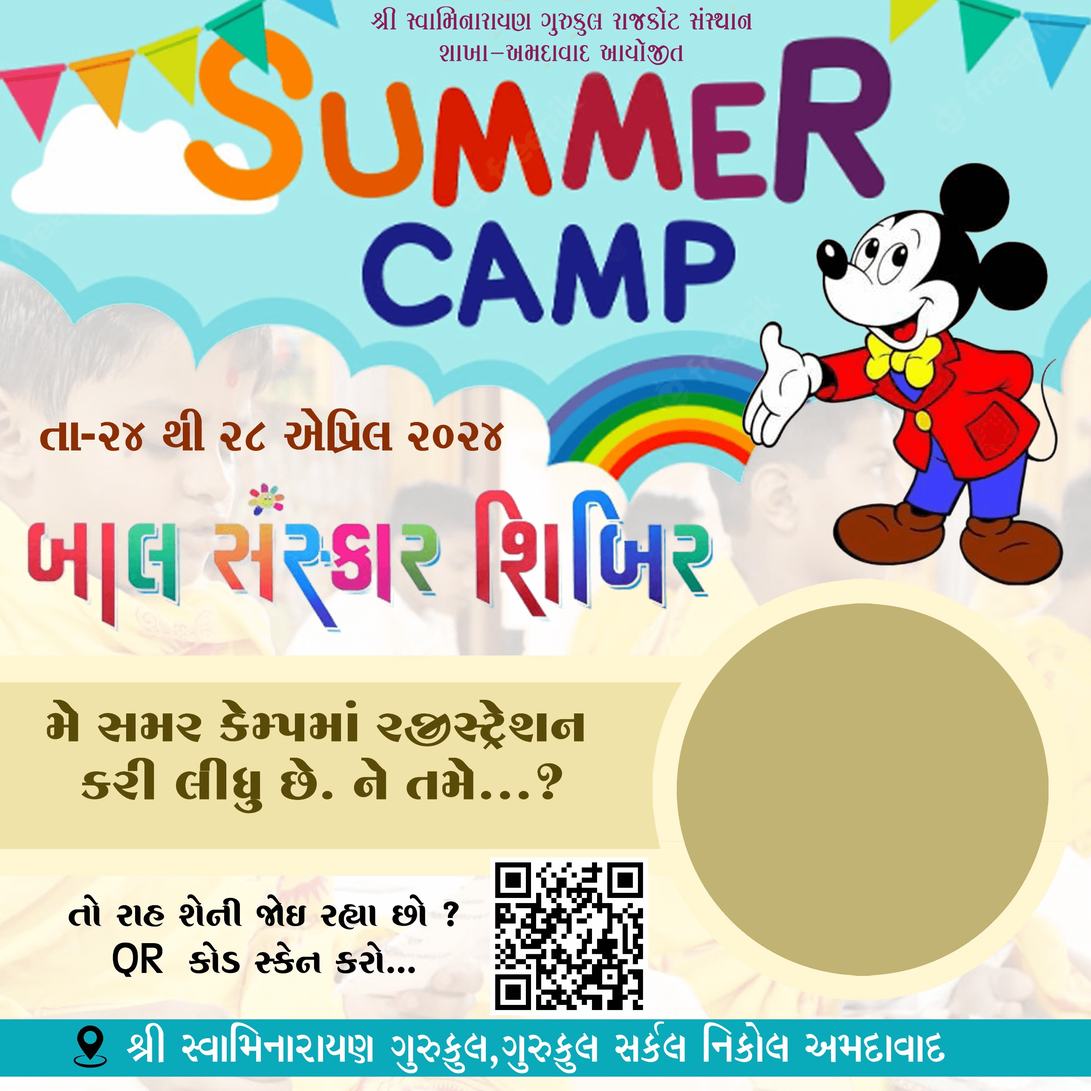
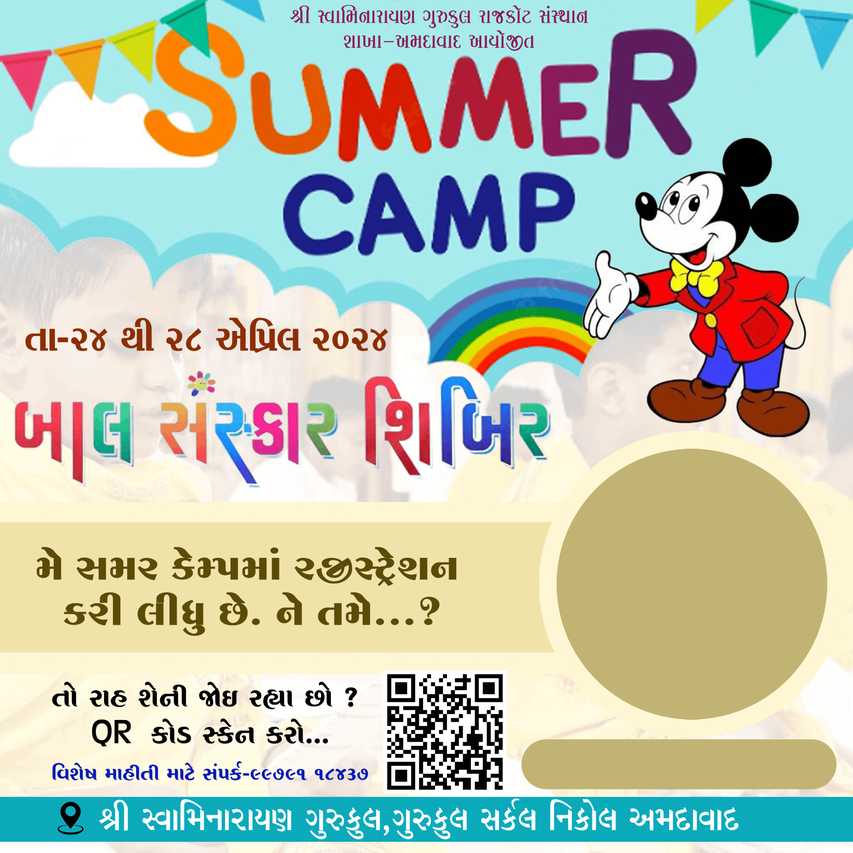
Changes: Image Changes

diff --git a/balsanskar-shibir-2024/index.html b/balsanskar-shibir-2024/index.html
@@ -42,7 +42,7 @@
 									<label class="form-label">Select Your Photo</label>
 									<div class="imageUploader">
 										<div class="user_pic_container_box">
-											<img data-type="circle" data-width="850" data-height="850" class='user_pic_container' src='./profile_pic.png'/>
+											<img data-type="circle" data-width="650" data-height="650" class='user_pic_container' src='./profile_pic.png'/>
 										</div>
 										<a class="imgremovebtn" href="#">X</a>
 										<input readonly style="display: none" id='file_browse' type="file" accept="image/*" required="required">
@@ -51,12 +51,12 @@
 								</div>
 							</div>
 
-							<!-- <div class="row">
+							<div class="row">
 								<div class="col-md-6 mb-3 offset-md-3">
 		                            <label for="name">Your Name</label>
 		                            <input type="text" class="form-control" name="name" id="name" value="" maxlength="19" value=" " required="">
 		                        </div>
-		                    </div> -->
+		                    </div>
 							<!-- <div class="row">
 								<div class="col-md-6 mb-3 offset-md-3">
 		                            <label for="phone">Your Phone</label>

diff --git a/balsanskar-shibir-2024/script.js b/balsanskar-shibir-2024/script.js
@@ -58,7 +58,7 @@ jQuery(document).ready(function(){
     var textInput = $(this).find('input[name="name"]');
     var phoneInput = $(this).find('input[name="name"]')
 
-    php_email_form_submit( this, APPSSCRIPT_URL, new FormData(this) );
+    // php_email_form_submit( this, APPSSCRIPT_URL, new FormData(this) );
     var imgEl = document.createElement('img');
     // if (imgInput.files && imgInput.files[0]) {
     //   const reader = new FileReader();
@@ -94,7 +94,7 @@ function mergeSelfie(imgURL, textInput){
 
   mergeImages([
     { src: 'bg.png', x: 0, y: 0 },
-    { src: imgURL, x:1600, y: 1430 },
+    { src: imgURL, x:1300, y: 1050 },
   ], {nameText: textInput}).then(b64 => imageSrc = b64).then( b64 => {
     aTag.href = imageSrc;
     return b64;

diff --git a/balsanskar-shibir-2024/index.umd.js b/balsanskar-shibir-2024/index.umd.js
@@ -78,14 +78,14 @@
 						});
 					}
 
-					ctx.font = "30px baloo";
-					ctx.fillStyle = "#ffffff";
+					ctx.font = "68px baloo";
+					ctx.fillStyle = "#6e6021";
 					var textString = options.nameText,
 					textWidth = ctx.measureText(textString).width;
 					// ctx.fillText(textString , (canvas.width/2) - (textWidth / 2), 450);
-					// ctx.textAlign = "center";
-					// cordiates settings ( y, x )
-					ctx.fillText(textString , 90 , 1100);
+					ctx.textAlign = "center";
+					// cordiates settings ( x, y )
+					ctx.fillText(textString , 1590 , 1810);
 					// Resolve all other data URIs sync
 					return canvas.toDataURL(options.format, options.quality);
 				}));
